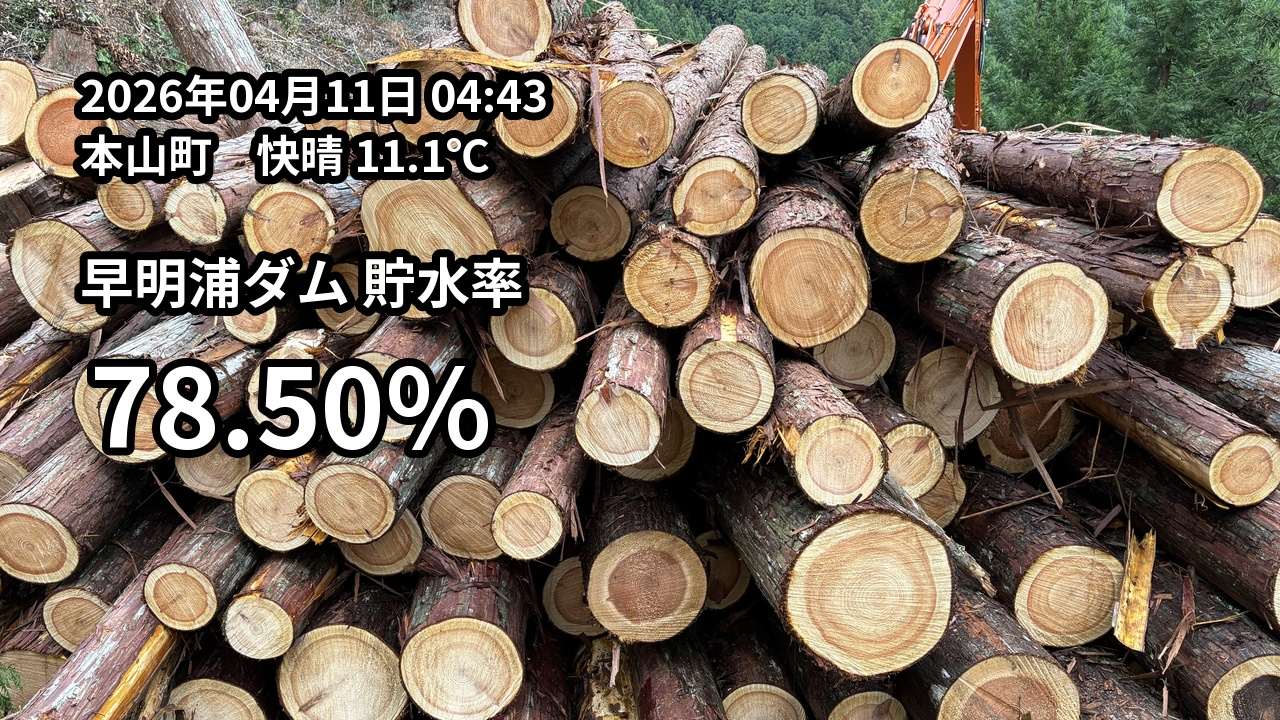
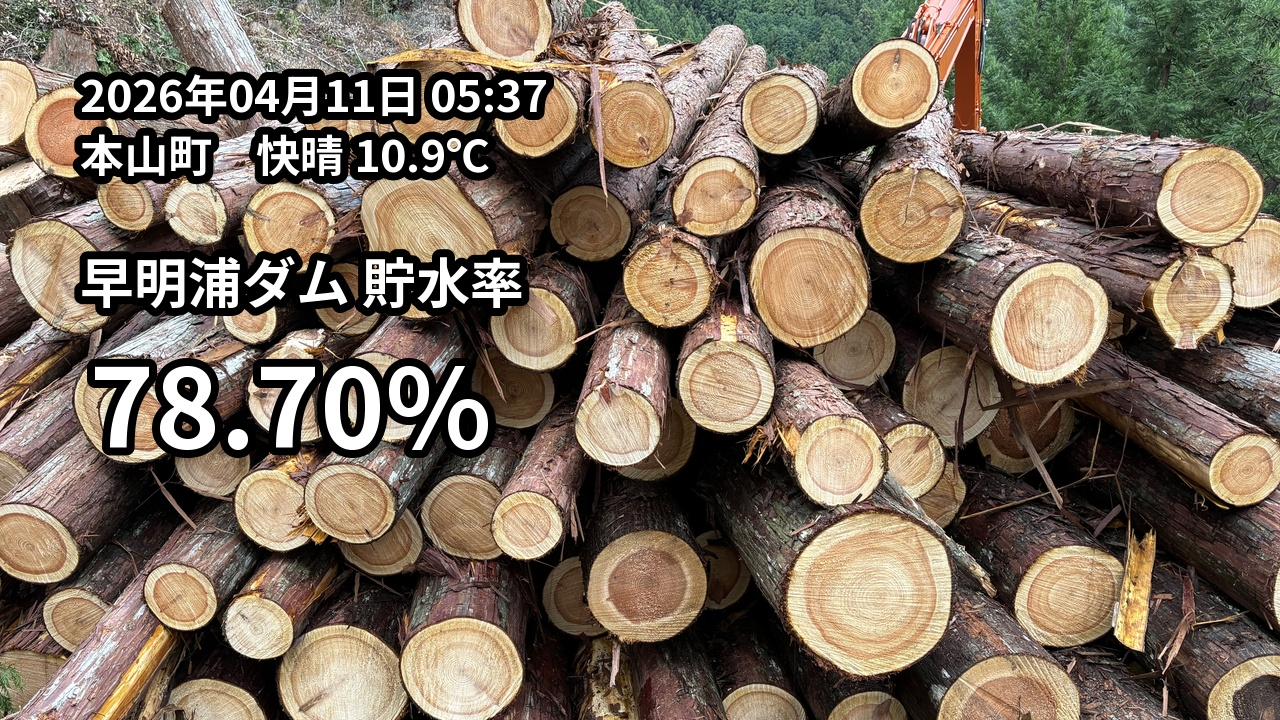
Update daily image

Changed region(s): [[0.1875, 0.4889, 0.25, 0.6417], [0.3438, 0.0917, 0.4375, 0.1833], [0.2812, 0.1833, 0.375, 0.2444]]

diff --git a/index.html b/index.html
@@ -10,6 +10,6 @@
   </style>
 </head>
 <body>
-  <img src="result.jpg?v=202604110443" alt="早明浦ダム 貯水率" />
+  <img src="result.jpg?v=202604110537" alt="早明浦ダム 貯水率" />
 </body>
 </html>
